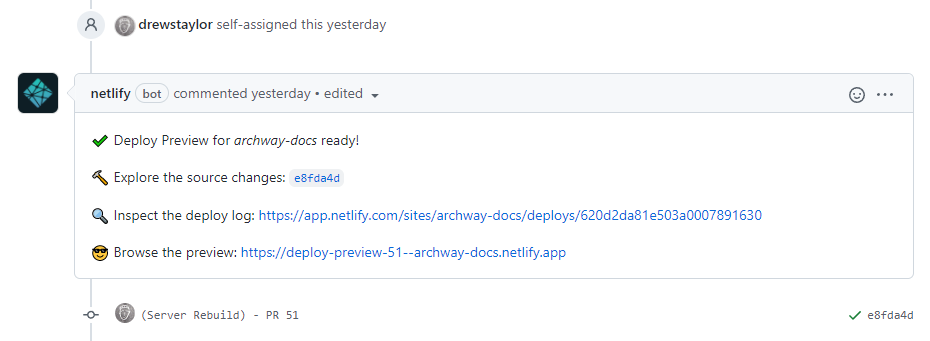
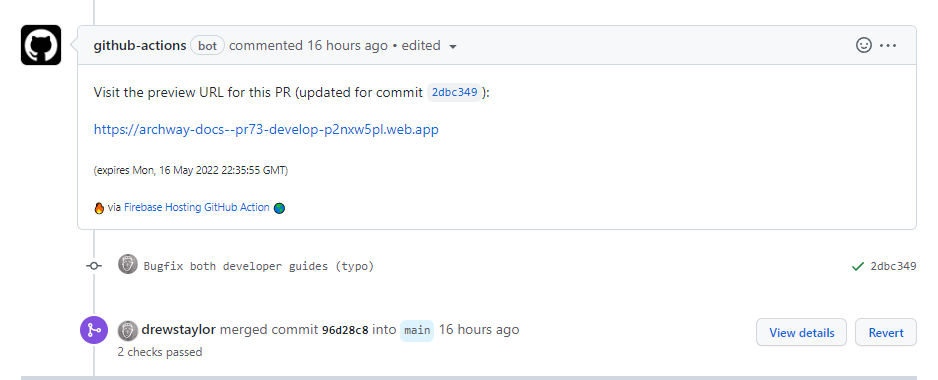
Contributor instructions updated

diff --git a/docs/participate/contribute.md b/docs/participate/contribute.md
@@ -142,29 +142,14 @@ Docusaurus website is running at "http://localhost:8080/".
 
 ### Preview PRs on a deployed preview
 
-After the PR moves from **Draft** to **Ready for review**, the CI status checks will generate a Netlify deploy preview. Netlify keeps this preview up to date as you continue to work and commit new changes to the same branch. 
+After the PR moves from **Draft** to **Ready for review**, the CI status checks will automatically generate a deploy preview. As you continue to work and commit new changes to the same branch, while the PR is open the deploy preview will be kept up to date with your latest pushed change set. 
 
 To view your preview, you'll have to build the web app for production and copy those changes to the `dist` folder, where distributions are kept. A production build must be created each time you change the code or docs in your branch for them to be reflected in the deployed preview.
 
-To build the web app for production:
-
-```bash
-cd archway-docs
-npm run build
-rm -r dist/
-cp -r build/ dist/
-# Now you can commit and push your build to see 
-# a deploy-preview once your PR is moved from Draft to Ready for review
-```
-
-:::note
-For clarity and review purposes, build commits should not contain changes to files outside of the `dist` directory or they may be rejected.
-:::
-
-To view a deployed preview on a **Ready for review** PR, click the **Browse the preview** link in the comment by the Netlify CI bot:
+To view a deployed preview on a **Ready for review** PR, click the preview link in the comment by the github-actions bot in the PR **Conversation** tab of the PR:
 
 ![deploy-preview](../assets/deploy-preview.png)
 
 ## Who works on the docs?
 
-The docs and guides are maintained by [@drewstaylor](https://github.com/drewstaylor) and [@aelesbao](https://github.com/aelesbao) with contributions from the entire Archway team and folks like you.
+The docs and guides are maintained by [@drewstaylor](https://github.com/drewstaylor), [@santanaluiz](https://github.com/santanaluiz) and [@aelesbao](https://github.com/aelesbao) with contributions from the entire Archway team and folks like you.
